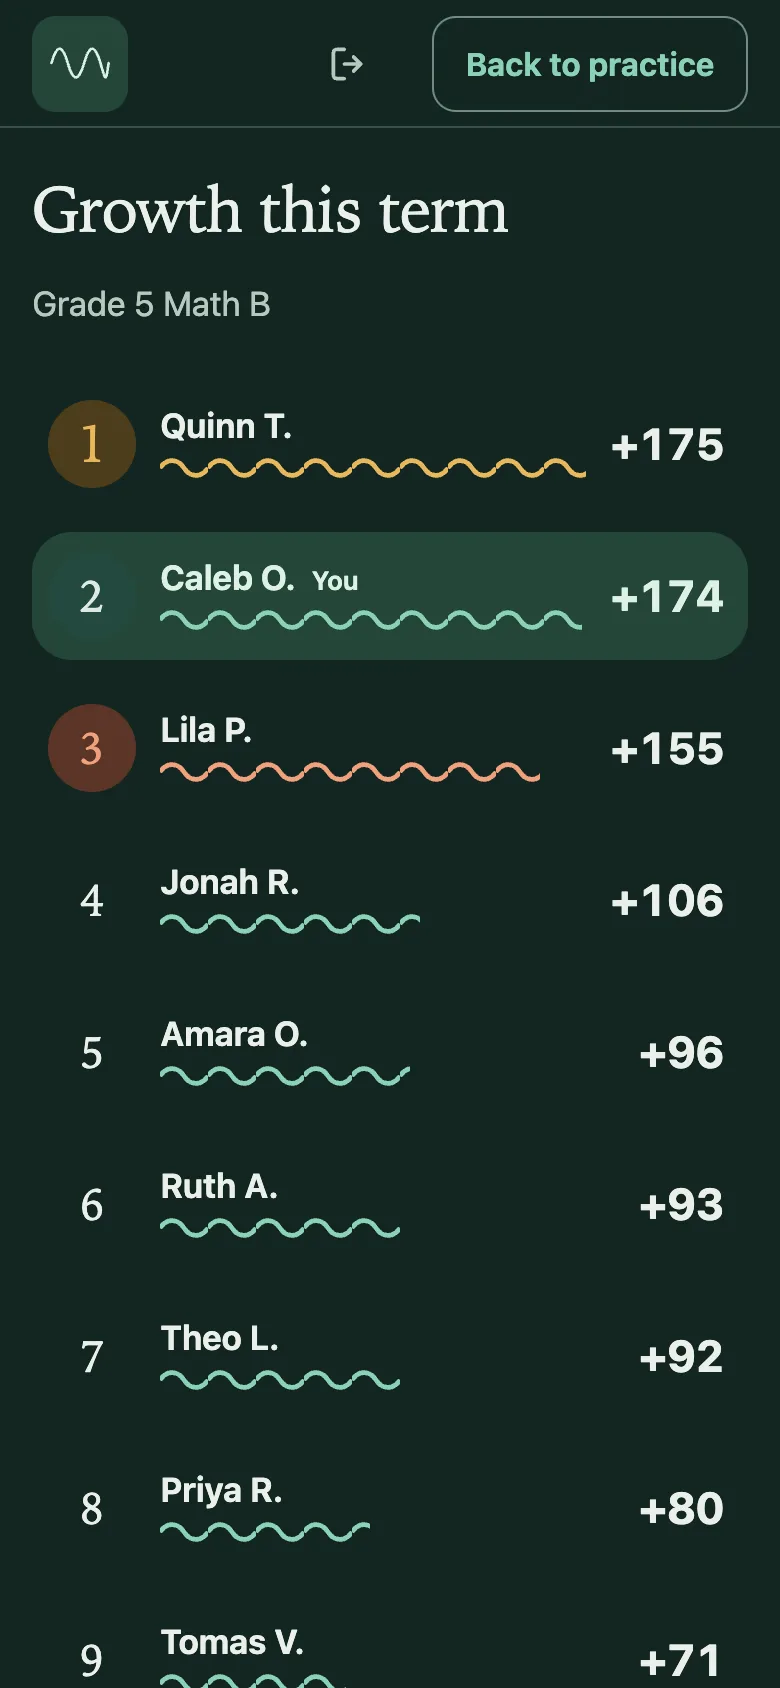
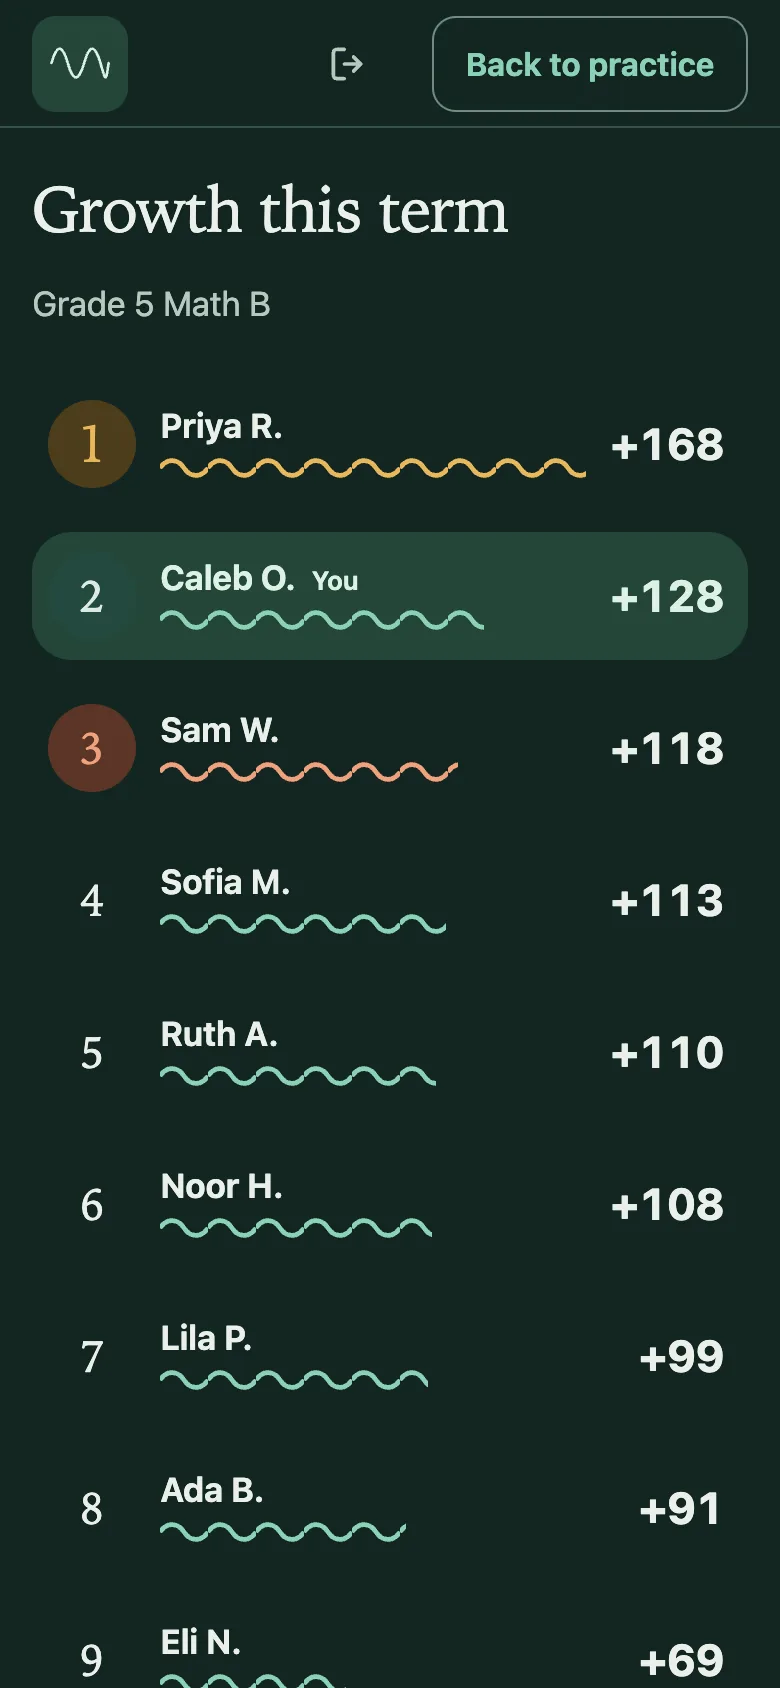
fix(amp): standings growth starts where the teacher's does
The standings board's "growth this term" now reads the same start-level.ts
rule as the overview and the grade model: the first level of the term past
placement, and nothing shown while a student is still placing, so a student
never sees a growth number that disagrees with their teacher's. A week's
growth still runs from the last settled level before the week. Both ends read
the indexed overall_level. The start-level integration case now checks the
board too (fails on the old rule). The standings capture and its /schools
screen are refreshed.

Claude-Session: https://claude.ai/code/session_01PfCNBU94h9oT4XDmJxKazE

diff --git a/amp/tests/schools-start-level.integration.ts b/amp/tests/schools-start-level.integration.ts
@@ -6,6 +6,7 @@ import { migrate } from "../scripts/migrate.js";
 import { PLACEMENT_ATTEMPTS } from "../src/learning/placement.js";
 import { studentFacts, usageOf } from "../src/schools/org-reads.js";
 import { SchoolRepository } from "../src/schools/repository.js";
+import { studentBoard } from "../src/schools/standings.js";
 import { levelsBySpan, type TermStudent } from "../src/schools/term-grades.js";
 
 const DAY = 86_400_000;
@@ -15,7 +16,7 @@ const two = (value: number | null | undefined) =>
   value === null || value === undefined ? value : Math.round(value * 100) / 100;
 
 test(
-  "A term's growth starts where placement settled, in the overview and the grade model alike",
+  "A term's growth starts where placement settled, in the overview, the grade model and the standings alike",
   { skip: !process.env.AMP_TEST_DATABASE_URL },
   async () => {
     const url = process.env.AMP_TEST_DATABASE_URL!;
@@ -41,10 +42,24 @@ test(
         seats: 10,
         endsAt: new Date(Date.now() + 30 * DAY).toISOString(),
       });
+      // A semester running now, and a class on it with a class board.
+      const year = randomUUID();
+      const semester = randomUUID();
+      await db.query(
+        `INSERT INTO amp_academic_sessions(id,org_id,parent_id,kind,name,starts_on,ends_on) VALUES
+           ($1,$3,NULL,'year','This year',$4,$5),($2,$3,$1,'semester','Semester 1',$4,$5)`,
+        [year, semester, org.id, day(-60), day(100)],
+      );
       const klass = await schools.createClass(org.id, {
         name: "Grade 5 Math",
         courseBands: ["5"],
+        gradingKind: "semester",
+        sessionId: year,
       });
+      await db.query(
+        `INSERT INTO amp_scope_settings(scope_kind,scope_id,"values") VALUES('class',$1,'{"standings":"class"}')`,
+        [klass.id],
+      );
       const student = (givenName: string) =>
         schools.provisionStudent(org.id, {
           givenName,
@@ -84,6 +99,13 @@ test(
       await level(continuing.learnerId, -80, 2.6, 280);
       await level(continuing.learnerId, -58, 3.0, 300);
       await level(continuing.learnerId, -1, 3.4, 400);
+
+      // Independent work this term, which a growth board counts.
+      for (const person of [settles, placing, continuing])
+        await db.query(
+          `INSERT INTO amp_skill_days(learner_id,day,skill_id,attempts,correct,independent) VALUES($1,$2,'s1',6,5,5)`,
+          [person.learnerId, day(-2)],
+        );
 
       const term = { name: "Semester 1", startsOn: day(-60), endsOn: day(100) };
       const facts = await studentFacts(db, org.id, term, day(0));
@@ -125,6 +147,17 @@ test(
       assert.equal(levels.get(settles.personId)?.end?.overall.level, 5.3);
       assert.equal(levels.get(placing.personId)?.start, null);
       assert.equal(levels.get(continuing.personId)?.start?.overall.level, 3);
+
+      // The board a student sees agrees with the teacher: the same start.
+      const growth = async (person: typeof settles) =>
+        (await studentBoard(db, person.personId, klass.id)).you.value;
+      assert.equal(await growth(settles), 90, "the climb from 4.4 to 5.3");
+      assert.equal(await growth(placing), 0, "nothing shown while placing");
+      assert.equal(
+        await growth(continuing),
+        40,
+        "from the term's first reading, 3.0, not last term's 2.6",
+      );
     } finally {
       await db.end();
       await admin.query(`DROP SCHEMA ${schema} CASCADE`);

diff --git a/amp/src/schools/standings.ts b/amp/src/schools/standings.ts
@@ -11,6 +11,8 @@ import {
   type SettingsScope,
 } from "./settings.js";
 import { STUDENT_NAME } from "./sign-in.js";
+import { PLACEMENT_ATTEMPTS } from "../learning/placement.js";
+import { startLevelSql } from "./start-level.js";
 
 /** Standings read from `amp_skill_days` and `amp_level_days`, independent work
  * only, and nothing here feeds what's scheduled next. A board is the top ten and
@@ -182,12 +184,14 @@ const shiftDays = (day: string, days: number) =>
 
 /** One number per student, for students with something to show. Growth is a
  * hundredth of a grade per point, so it reads as a whole number and says nothing
- * of the level itself. */
+ * of the level itself. A term's growth starts where the teacher's does
+ * (`start-level.ts`); a week's runs from the last settled level before it. */
 async function measured(
   db: Database,
   roster: Roster[],
   measure: Measure,
   { from, to }: Term,
+  span: "term" | "week" = "term",
 ): Promise<Map<string, number>> {
   const person = new Map(roster.map((m) => [m.learnerId, m.personId]));
   const values = new Map<string, number>();
@@ -224,18 +228,28 @@ async function measured(
   const worked = new Set(independent.rows.map((row) => row.learner_id));
   const ends = await db.query(
     `SELECT l.learner_id,
-       (SELECT (d.frontier->'overall'->>'level')::float8 FROM amp_level_days d
+       (SELECT d.overall_level::float8 FROM amp_level_days d
         WHERE d.learner_id=l.learner_id AND d.day<=$3::date ORDER BY d.day DESC LIMIT 1) AS latest,
-       COALESCE(
-         (SELECT (d.frontier->'overall'->>'level')::float8 FROM amp_level_days d
-          WHERE d.learner_id=l.learner_id AND d.day<$2::date ORDER BY d.day DESC LIMIT 1),
-         (SELECT (d.frontier->'overall'->>'level')::float8 FROM amp_level_days d
-          WHERE d.learner_id=l.learner_id AND d.day BETWEEN $2::date AND $3::date ORDER BY d.day LIMIT 1)
-       ) AS start
+       ${
+         span === "term"
+           ? startLevelSql({
+               select: "d.overall_level::float8",
+               learner: "l.learner_id",
+               from: "$2::date",
+               to: "$3::date",
+             })
+           : `COALESCE(
+         (SELECT d.overall_level::float8 FROM amp_level_days d
+          WHERE d.learner_id=l.learner_id AND d.day<$2::date AND d.overall_answered>=${PLACEMENT_ATTEMPTS} ORDER BY d.day DESC LIMIT 1),
+         ${startLevelSql({ select: "d.overall_level::float8", learner: "l.learner_id", from: "$2::date", to: "$3::date" })}
+       )`
+       } AS start
      FROM unnest($1::text[]) AS l(learner_id)`,
     [[...worked], from, to],
   );
   for (const row of ends.rows) {
+    // Still placing: no start, so nothing to show rather than a zero.
+    if (row.start === null || row.latest === null) continue;
     const points = Math.round((row.latest - row.start) * 100);
     if (points > 0) values.set(person.get(row.learner_id)!, points);
   }
@@ -439,6 +453,7 @@ export async function studentBoard(
       from: [term.from, shiftDays(term.to, -6)].sort().at(-1)!,
       to: term.to,
     },
+    "week",
   );
   const listed = top.find((row) => row.you);
   return {

diff --git a/amp/src/schools/start-level.ts b/amp/src/schools/start-level.ts
@@ -7,8 +7,9 @@ import { PLACEMENT_ATTEMPTS } from "../learning/placement.js";
  * below where they settle, so growth never starts there. No such reading
  * means no start level, and so no growth figure rather than a zero.
  *
- * The one rule for the overview (`org-reads.ts`) and the grade model
- * (`term-grades.ts`), so the two can't disagree. `learner`, `from` and `to`
+ * The one rule for the overview (`org-reads.ts`), the grade model
+ * (`term-grades.ts`) and the standings board (`standings.ts`), so a student
+ * never sees a growth number that disagrees with their teacher's. `learner`, `from` and `to`
  * are SQL expressions; `select` is what to read from the row (`d.` columns).
  */
 export const startLevelSql = ({

diff --git a/amp/src/web/features/schools/screens.ts b/amp/src/web/features/schools/screens.ts
@@ -54,7 +54,7 @@ export const productScreens = {
   standings: {
     id: "standings",
     alt: "A class board of the top ten students by growth this term, with one student’s own line highlighted.",
-    wide: { width: 720, height: 1108 },
+    wide: { width: 720, height: 1184 },
     narrow: { width: 780, height: 1688 },
   },
   schoolOverview: {

diff --git a/amp/docs/schools.md b/amp/docs/schools.md
@@ -73,7 +73,7 @@ Percent correct is the wrong grade, because AMP serves harder work as students s
 - **Every grade opens to evidence:** the objectives, the dates and the actual problems, so "why a B?" takes one click. Overrides are logged. Export as a column to blend with the rest of the course grade.
 - **Mixed-grade classes:** a class with no course grades each student against their own grade level.
 - **Implementation:** versioned policy in `src/schools/grade-policy.ts`, tuned by agents, following `practice-policy.ts`. Closed terms are frozen with their inputs. Open terms compute on read from rollups and level days, with no replay and no learner lock.
-- **Where a term starts:** a student's start level is the first stored level on or after the term began whose estimate stands on at least a placement's worth of answers (`PLACEMENT_ATTEMPTS`). Placement's first guesses can sit well above or below where a student settles, so growth never starts there; with no such reading there's no growth figure rather than a zero. One fragment, `src/schools/start-level.ts`, serves the overview and the grade model.
+- **Where a term starts:** a student's start level is the first stored level on or after the term began whose estimate stands on at least a placement's worth of answers (`PLACEMENT_ATTEMPTS`). Placement's first guesses can sit well above or below where a student settles, so growth never starts there; with no such reading there's no growth figure rather than a zero. One fragment, `src/schools/start-level.ts`, serves the overview, the grade model and the standings board, so a student's board never disagrees with their teacher.
 - **What never moves a suggestion:** how many problems a student answered on screen, and how many they got right outside spaced review. `tests/schools-grade-policy.test.ts` proves it.
 - **Objectives:** a skill counts on the day a student's own independent successes reach two, with no ancestor credit, and only if it isn't well below where they started the term.
 - **Tests with personas:** fast accelerator, steady at-level, two grades behind but growing fast, high accuracy with little work, inactive, joined mid-term.
